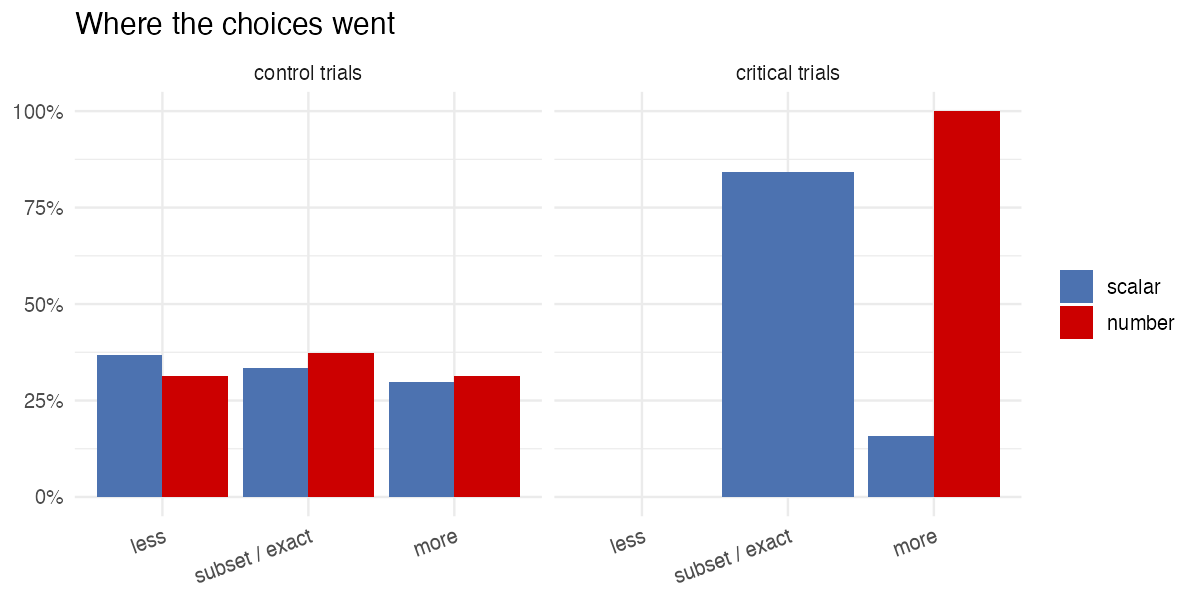
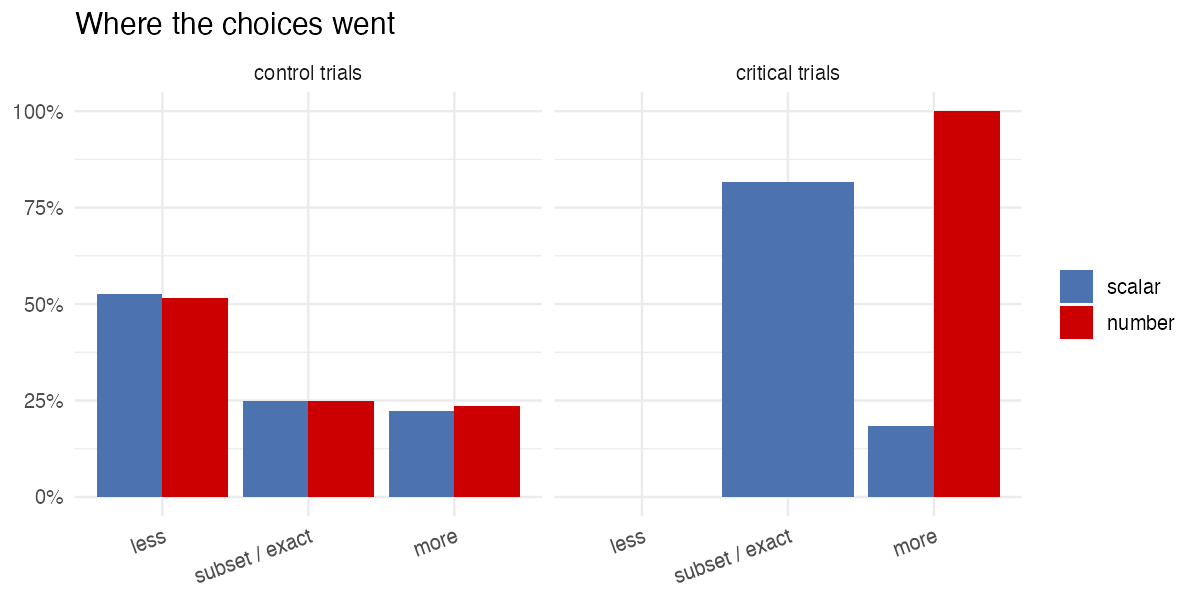
Allocate trials by what each type is for, not 3 critical / 1 each control
The old 3/1/1 split rested on calling both control types comprehension
checks. One of them is not. In the (SOME,ALL) trials a subset match and a
total-set match are both visible, and adults take the subset 90% of the
time; Huang et al. describe this as "a robust ability to calculate the
scalar implicature". It is what makes the critical result strange -- the
implicature is computed when it picks something out and abandoned when it
does not -- so half the argument lives there.

Trial counts are now per role rather than critical-vs-control:

  critical 2   the headline contrast
  strong   2   (SOME,ALL) / (2,3v5), the comparison that makes it strange
  weak     1   (NONE,SOME) / (1,2), a genuine comprehension check
  probe    1

Same six test trials as before, allocated to match what each one carries.
N_TRIALS in design.py is now a dict, so any split is one edit.

Claude-Session: https://claude.ai/code/session_01W6W1Yt4uZhCBdA8GGktaX5

Changed region(s): [[0.0617, 0.48, 0.4317, 0.69], [0.5858, 0.27, 0.7092, 0.33], [0.7092, 0.69, 0.7708, 0.75]]

diff --git a/design.py b/design.py
@@ -12,17 +12,32 @@ and every prompt in the survey is unique.
 """
 
 # ---- how many trials of each kind ------------------------------------------
-# The published effect is 13% vs 100% covered-box choices, between subjects.
-# Simulated power to detect it is 1.00 even with eight participants per term
-# giving ONE critical trial each, so observations per cell buy nothing
-# statistically. Three critical trials are kept only for item generality --
-# does it hold across objects? -- and because a 0/3..3/3 per-participant rate
-# reads better than a bare yes/no. The controls exist to show the task works,
-# which one trial each demonstrates and the four familiarization trials mostly
-# establish already.
-N_CRITICAL = 3
-N_CONTROL  = 1          # per control trial type
-N_PROBE    = 1          # see below
+# Not all three test trial types are doing the same job, so they do not get the
+# same number of trials.
+#
+#   critical   (NONE,ALL) / (1, 3v5)   the headline. No match is visible, so a
+#                                      participant who insists on one must take
+#                                      the covered box. 13% vs 100%.
+#
+#   strong     (SOME,ALL) / (2, 3v5)   NOT a comprehension check. A subset match
+#                                      and a total-set match are both visible and
+#                                      adults take the subset 90% of the time --
+#                                      Huang et al. call this "a robust ability
+#                                      to calculate the scalar implicature". It
+#                                      is what makes the critical result strange:
+#                                      the implicature is computed when it picks
+#                                      something out, and abandoned when it does
+#                                      not. Half the argument lives here.
+#
+#   weak       (NONE,SOME) / (1, 2)    this one really is a comprehension check:
+#                                      it shows only that "some" is not "none"
+#                                      and "two" is not "one".
+#
+# Statistically none of it needs replication -- simulated power for the critical
+# contrast is 1.00 at eight participants per term with one trial each. Extra
+# trials buy item generality and a graded per-participant rate, so they go where
+# the argument is.
+N_TRIALS = {"critical": 2, "weak": 1, "strong": 2, "probe": 1}
 
 # nine objects, each with its plural for the number prompt
 OBJECTS = [("cookie","cookies"), ("apple","apples"), ("balloon","balloons"),
@@ -43,8 +58,9 @@ NAMES = [("Zip","Nub"), ("Mo","Pim"), ("Dax","Wug"), ("Tev","Lom"), ("Bix","Rud"
 # is correct whatever anyone's semantics. It sits AFTER the critical trials, so
 # it cannot prime them, and it turns the worry into a measurement: if scalar
 # participants pass the probe, their low critical rate is not extinction.
-SCALAR_TYPES = ["critical", "noneSome", "someAll", "probe"]
-NUMBER_TYPES = ["critical", "oneTwo",   "twoMore", "probe"]
+ORDER  = ["critical", "strong", "weak", "probe"]   # critical first, probe last
+SCALAR = {"critical":"critical", "weak":"noneSome", "strong":"someAll", "probe":"probe"}
+NUMBER = {"critical":"critical", "weak":"oneTwo",   "strong":"twoMore",  "probe":"probe"}
 
 # which two open boxes each trial type shows (choice 1, choice 2)
 SCALAR_BOXES = {"critical": ("NONE","ALL"),   # no subset match -> covered box
@@ -65,15 +81,12 @@ NUMBER_MEANING = {"critical": ("one","more"), "oneTwo": ("one","match"),
 MORE = [3, 5, 3, 5, 3, 5, 3, 5, 3]     # the "more than two" count, per set
 
 def _plan():
-    """[(trial type, index within it)], critical first"""
-    out=[]
-    for j,k in enumerate([N_CRITICAL, N_CONTROL, N_CONTROL, N_PROBE]):
-        out += [(j, n) for n in range(k)]
-    return out
+    """roles in presentation order, repeated N_TRIALS times each"""
+    return [role for role in ORDER for _ in range(N_TRIALS[role])]
 
 def scalar_trials():
-    for i,(t,_) in enumerate(_plan()):
-        kind = SCALAR_TYPES[t]
+    for i,role in enumerate(_plan()):
+        kind = SCALAR[role]
         target, other = NAMES[i]
         _, plural = OBJECTS[i]
         if kind == "probe":                       # ask for an absent object
@@ -84,8 +97,8 @@ def scalar_trials():
                    meaning=SCALAR_MEANING[kind])
 
 def number_trials():
-    for i,(t,_) in enumerate(_plan()):
-        kind = NUMBER_TYPES[t]
+    for i,role in enumerate(_plan()):
+        kind = NUMBER[role]
         _, plural = OBJECTS[i]
         if kind == "probe":                       # ask for an absent object
             plural = OBJECTS[(i+3) % len(OBJECTS)][1]

diff --git a/README.md b/README.md
@@ -89,13 +89,18 @@ entirely — otherwise it is 22 questions × 3 choices of manual insertion.
   one of each control type, and one probe (below). Each has its own object and characters,
   so every prompt in the survey is distinct.
 
-  Why so few. Simulated power to detect the published 13%-vs-100% contrast is
+  Why so few, and why this split. Simulated power for the critical contrast is
   **1.00 even at eight participants per term giving one critical trial each** —
-  an 87-point effect does not need replication inside a participant. The three
-  critical trials are kept for item generality and because a 0/3–3/3 rate reads
-  better than a bare yes/no; the controls are comprehension checks that one
-  trial each demonstrates, on top of four familiarization trials. `N_CRITICAL`
-  and `N_CONTROL` at the top of `design.py` change this.
+  an 87-point effect needs no replication inside a participant. Extra trials buy
+  item generality and a graded per-participant rate, so they go where the
+  argument is. `N_TRIALS` at the top of `design.py` sets the allocation.
+
+  | role | trials | what it does |
+  |---|---|---|
+  | **critical** — (NONE,ALL) / (1, 3∨5) | 2 | the headline: no match visible, so anyone insisting on one must take the covered box. 13% vs 100%. |
+  | **strong** — (SOME,ALL) / (2, 3∨5) | 2 | *not* a comprehension check. Both a subset and a total set are visible and adults take the subset 90% of the time — Huang et al. call this "a robust ability to calculate the scalar implicature". It is what makes the critical result strange: the implicature is computed when it picks something out and abandoned when it does not. |
+  | **weak** — (NONE,SOME) / (1, 2) | 1 | this one really is a comprehension check: *some* is not *none*, *two* is not *one*. |
+  | **probe** | 1 | see below |
 
   Object sets are *nested* in trial type, not crossed with it.
 
